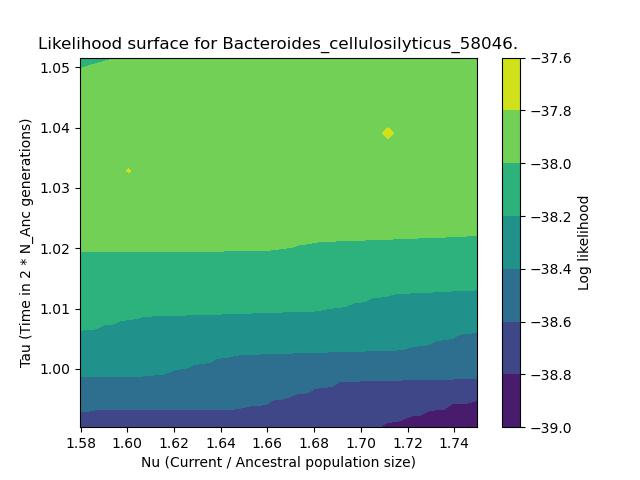
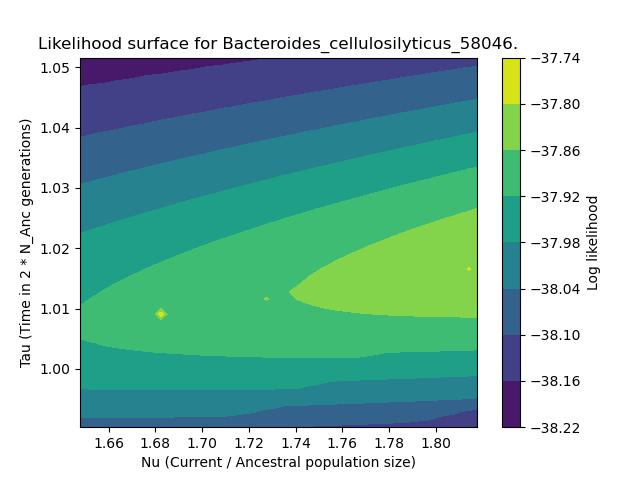
B. cellulosilyticus

diff --git a/Scripts/plot_likelihood.py b/Scripts/plot_likelihood.py
@@ -466,7 +466,7 @@ class PlotLikelihood():
 
                 npts = 50
 
-                x_range = numpy.linspace(x * 0.93, x * 1.03, npts)
+                x_range = numpy.linspace(x * 0.97, x * 1.07, npts)
                 y_range = numpy.linspace(y * 0.97, y * 1.03, npts)
 
                 X, Y = numpy.meshgrid(x_range, y_range)
